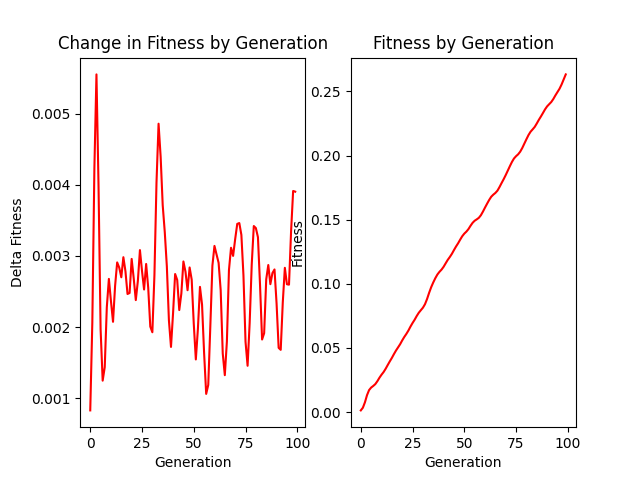
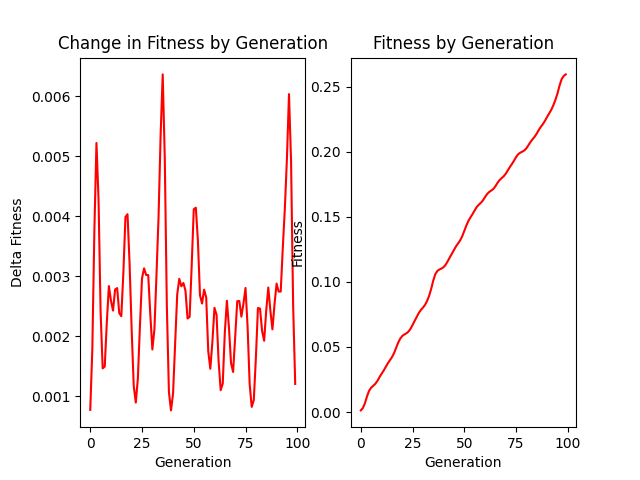
homogeneous starting population with images

diff --git a/transfer-too.py b/transfer-too.py
@@ -46,19 +46,19 @@ def reproductive_update(genome):
 
 if __name__ == '__main__':
     ### PARAMS ##
-    population = 10**5
+    population = 10**4
     polymorphic_sites = 5
     U_b = 0.01
-    # activated_proportion = 0.01
+    activated_proportion = 0.01
     generations = 100
     mutation_prob = 10 ** -3
-    num_recombinations = 100 #TODO on order of beneficial mutation rate
+    num_recombinations = 100 # on order of beneficial mutation rate
     ### PARAMS ###
 
     genome = np.zeros((population, polymorphic_sites))
 
-    # for i in range(population):
-    #     genome[i] = np.array([np.random.binomial(1, activated_proportion) for _ in range(polymorphic_sites)])
+    for i in range(population):
+         genome[i] = np.array([np.random.binomial(1, activated_proportion) for _ in range(polymorphic_sites)])
 
     old_fitness = average_fitness(genome)
     fitness_deltas = []
